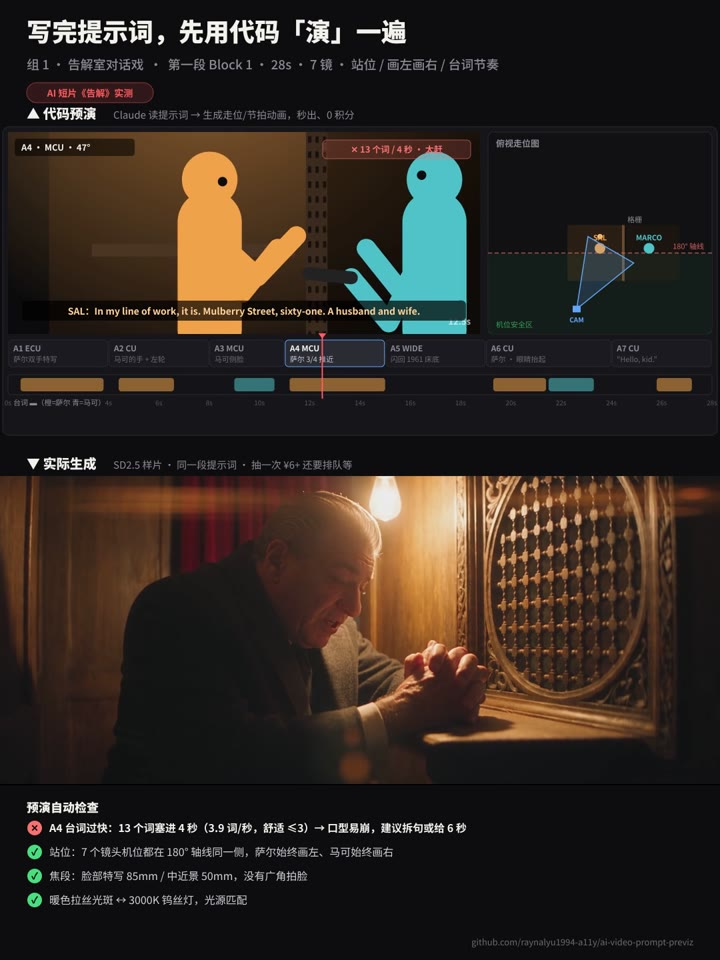
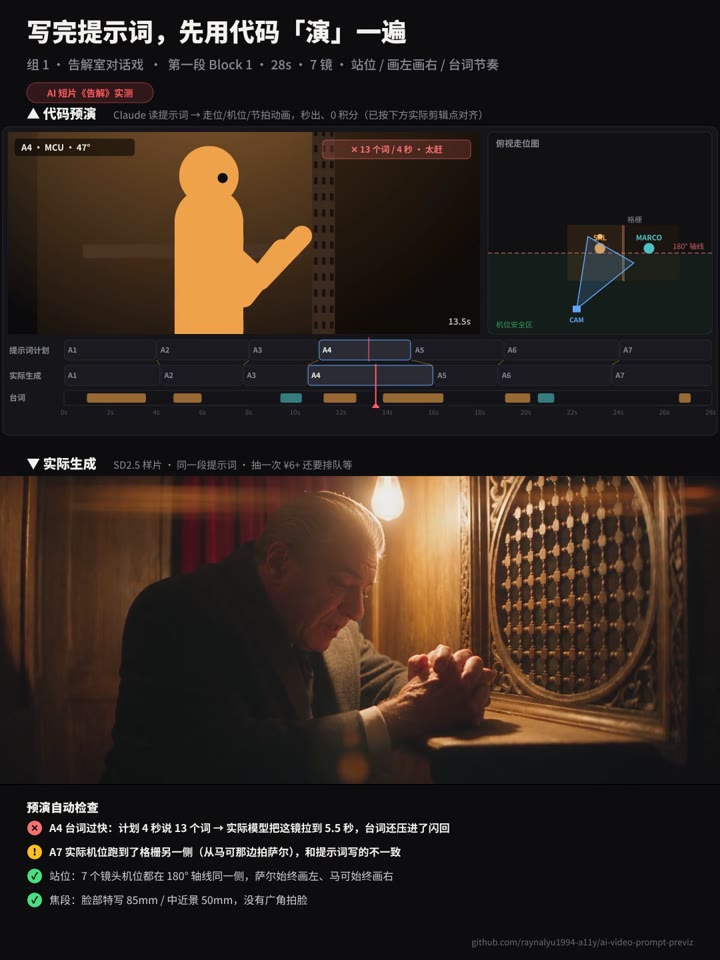
告解 example + new README

diff --git a/README.md b/README.md
@@ -50,12 +50,13 @@
 80 年代复古黑帮短片，两段提示词的预演结果（完整规格见 [`examples/confession.json`](prompt-previz/examples/confession.json)）：
 
 **Block 1 · 告解室对话（28 秒 · 7 镜）**
-- ❌ A4 台词 13 个词塞进 4 秒（3.9 词/秒）→ 建议拆句或给 6 秒
+- ❌ A4 台词 13 个词塞进 4 秒（3.9 词/秒）—— 实际生成里模型把这一镜拉到 5.5 秒，台词一路说进了下一镜的闪回
+- ⚠ 实际 A7 机位跑到格栅另一侧，和提示词写的不一致 —— 预演和成片一对照就能看出来
 - ✅ 7 个机位都在轴线同一侧，萨尔始终画左、马可始终画右
 - ✅ 特写 85mm / 中近景 50mm，没有广角拍脸
 
 **Block 2B · 教堂打戏（20 秒 · 10 镜）**
-- ❌ "Still dropping that elbow, kid." 只给了 1.2 秒 —— 实际生成里模型自己把这个镜头拉长了，后面的镜头全部被往后挤
+- ❌ "Still dropping that elbow, kid." 只给了 1.2 秒 —— 实际生成里这一镜从计划 2 秒被拉到 2.5 秒，后面的镜头整体后移
 - ⚠ B3 / B5：1.5–1.8 秒塞 3 个动作 → 建议每个动作 ≥ 0.8 秒
 - ✅ 每一拳都在臂展之内，抄烛台、进身都标了垫步
 
